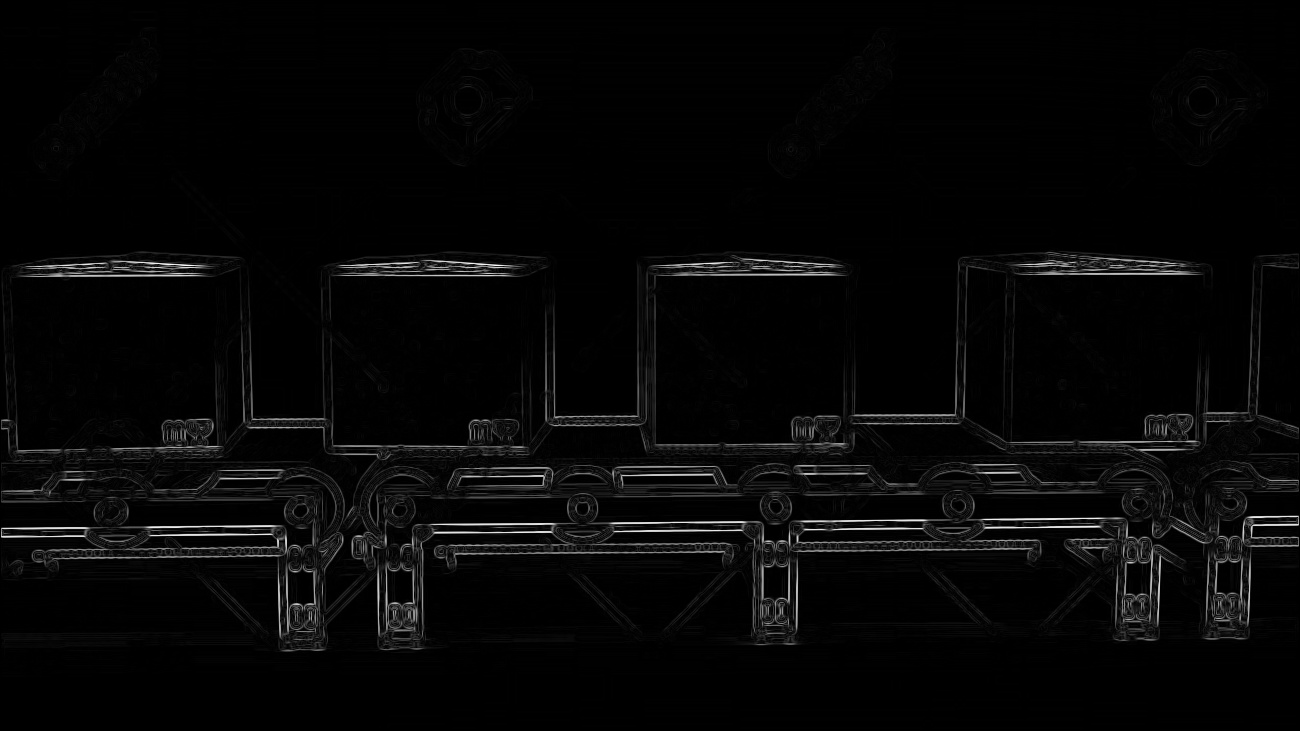
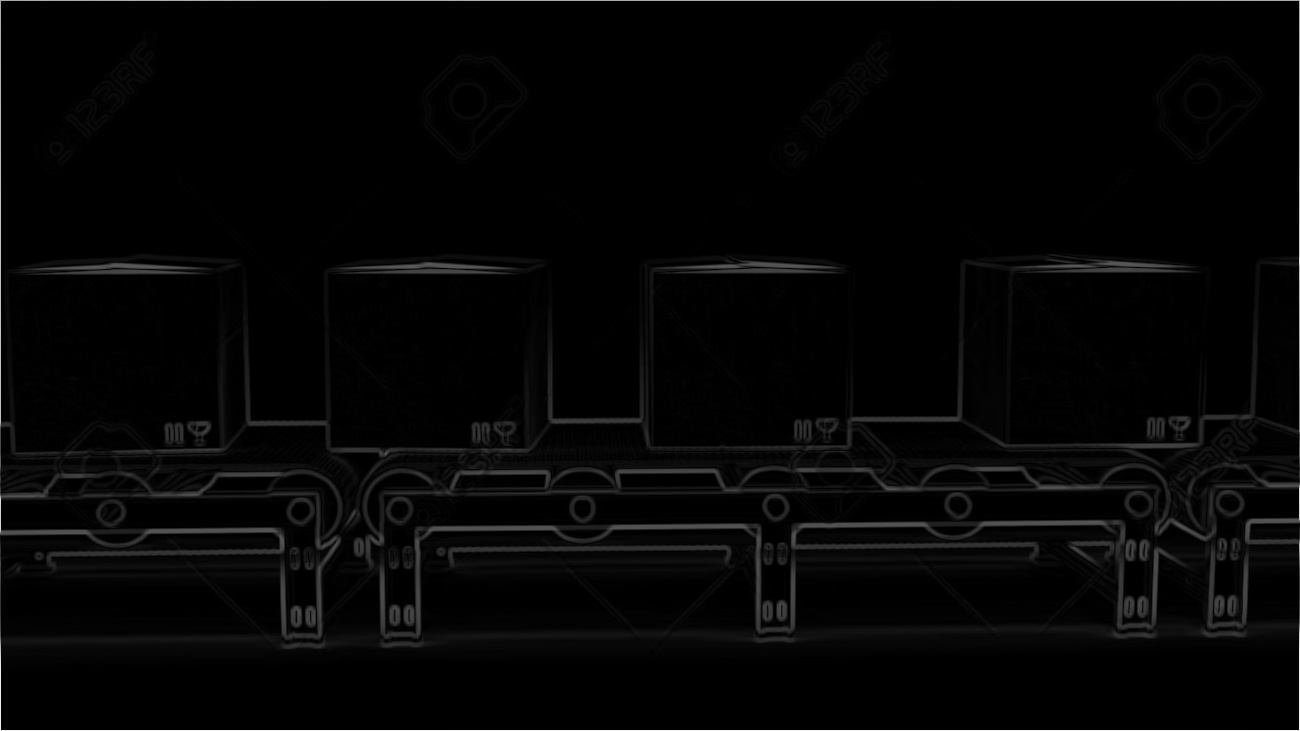
Little changes in folder Descriptors

diff --git a/Descriptors/sobel/sobel.py b/Descriptors/sobel/sobel.py
@@ -2,106 +2,50 @@ import cv2
 import numpy as np
 import matplotlib.pyplot as plt
 
-def sobel(image):
-
-    Gx = np.array([[-1, 0, 1],
-                   [-2, 0, 2],
-                   [-1, 0, 1]])
+def Sobel(img):
+    """
+    Функция применения ядра собеля к ч/б изображению
+    Ввод - Матрица, соответсвующая ч/б изображению
+    Вывод - Матрица, содержащая в себе магнитуду каждого пикселя
+    """ 
+    h, w=img.shape
+    Gx=np.array([[-1, 0, 1],                                                    # Создаём ядра собеля
+                 [-2, 0, 2], 
+                 [-1, 0, 1]], 
+                 dtype=np.float32)
     
-    Gy = np.array([[-1, -2, -1],
-                   [0, 0, 0],
-                   [1, 2, 1]])
+    Gy=np.array([[-1, -2, -1], 
+                 [0, 0, 0], 
+                 [1, 2, 1]], 
+                 dtype=np.float32)
     
-    # Получаем размеры изображения
-    h, w = image.shape
-    
-    # Создаем массивы для результатов
-    X = np.zeros_like(image, dtype=np.float64)
-    Y = np.zeros_like(image, dtype=np.float64)
-    M = np.zeros_like(image, dtype=np.float64)
-        
-    # Применяем свертку (обходим пиксели, кроме границ)
-    for i in range(1, h - 1):
-        for j in range(1, w - 1):
-            # Вырезаем область 3x3 вокруг текущего пикселя
-            region = image[i-1:i+2, j-1:j+2]
-            
-            # Вычисляем градиент по X и Y
-            gx = np.sum(region * Gx)
-            gy = np.sum(region * Gy)
-            
-            X[i, j] = gx
-            Y[i, j] = gy
-            
-            # Вычисляем величину градиента
-            M[i, j] = np.sqrt(gx**2 + gy**2)
-
-    # Нормализуем результат для отображения (0-255)
-    M = (M / M.max()) * 255
-    M = M.astype(np.uint8)
-    
-    return M
-
-"""
-def detect_contours_adaptive(M):
-
-    
-    # Автоматический порог OTSU
-    _, binary = cv2.threshold(M, 0, 255, cv2.THRESH_BINARY + cv2.THRESH_OTSU)
-    
-    # Морфологические операции для улучшения
-    kernel = np.ones((3, 3), np.uint8)
-    binary = cv2.morphologyEx(binary, cv2.MORPH_CLOSE, kernel)  # Закрытие дырок
-    binary = cv2.morphologyEx(binary, cv2.MORPH_OPEN, kernel)   # Удаление шума
-    
-    # Находим контуры
-    contours, hierarchy = cv2.findContours(binary, cv2.RETR_TREE, cv2.CHAIN_APPROX_SIMPLE)
-    
-    # Фильтруем контуры по площади
-    min_area = 100
-    filtered_contours = [cnt for cnt in contours if cv2.contourArea(cnt) > min_area]
-    
-    # Рисуем результат
-    result = img.copy()
-    cv2.drawContours(result, filtered_contours, -1, (0, 255, 0), 2)
-
-    return binary, result
-"""
-
-def ad_cont(M, a):
-    M1 = np.zeros_like(M, dtype=np.float64)
-    for i in range (0, len(M)-a, a):
-        for j in range (0, len(M[0])-a, a):
-            m=M[i:i+a, j:j+a]
-            p=np.sum(m)/len(m)/len(m[0])
-            for i1 in range(a):
-                for j1 in range(a):
-                    if M[i+i1, j+j1]>p:
-                        M1[i+i1, j+j1]=255
-    return M1
+    img_new_size=np.pad(img, 1, mode='constant')                                # Увеличиваем матрицу до размеров i+2, j+2
+    gx=(Gx[0,0]*img_new_size[0:h, 0:w]+                                             #-1*северо-запад
+        Gx[0,2]*img_new_size[0:h, 2:w+2]+                                           # 1*северо-восток
+        Gx[1,0]*img_new_size[1:h+1, 0:w]+                                           #-2*запад
+        Gx[1,2]*img_new_size[1:h+1, 2:w+2]+                                         # 2*восток
+        Gx[2,0]*img_new_size[2:h+2, 0:w]+                                           #-1*юго-запад
+        Gx[2,2]*img_new_size[2:h+2, 2:w+2])                                         # 1*юго-восток
+    gy=(Gy[0,0]*img_new_size[0:h, 0:w]+                                             #-1*северо-запад
+        Gy[0,1]*img_new_size[0:h, 1:w+1]+                                           #-2*север
+        Gy[0,2]*img_new_size[0:h, 2:w+2]+                                           #-1*северо-восток
+        Gy[2,0]*img_new_size[2:h+2, 0:w]+                                           # 1*юго-запад
+        Gy[2,1]*img_new_size[2:h+2, 1:w+1]+                                         #-1*юг
+        Gy[2,2]*img_new_size[2:h+2, 2:w+2])                                         # 1*юго-восток      
+    magnitude=np.sqrt(gx**2 + gy**2)                                            # Считаем магнитуду
+    magnitude=(magnitude/(magnitude.max()+1e-10))*255                           # Нормализуем по максимальному значению
+    cv2.imwrite('X.jpg', gx)
+    cv2.imwrite('Y.jpg', gy)
+    return magnitude.astype(np.uint8)
 
 img = cv2.cvtColor((cv2.imread("image.png")), cv2.COLOR_BGR2GRAY)
 obj=cv2.cvtColor((cv2.imread("image1.png")), cv2.COLOR_BGR2GRAY)
-"""
-for i in range (3,16,2):
-    for j in range (1, 100, 5):
-
-        img = cv2.GaussianBlur(img, (i, i), j)
-
-        M = sobel(img)
-        M1=ad_cont(M, max(len(obj), len(obj[0])))
-
-        cv2.imwrite(f"/mnt/c/CV/COD/Res/M1_{i}_{j}.jpg", M1)
-
-"""
 
 img = cv2.GaussianBlur(img, (5, 5), 41)
 
-M = sobel(img)
-M1=ad_cont(M, max(len(obj), len(obj[0])))
+M = Sobel(img)
+#M1=ad_cont(M, max(len(obj), len(obj[0])))
 
 cv2.imwrite('M.jpg', M)
-cv2.imwrite("M1.jpg", M1)
-
-
+#cv2.imwrite("M1.jpg", M1)
 

diff --git a/Pipeline/classic.py b/Pipeline/classic.py
@@ -191,7 +191,7 @@ def classic(image_BGR, template):
             lbp_Reg=LBP(Reg)                                                        # Получение LBP картинки региона
             hist_Reg=LBP_hist(lbp_Reg)                                              # Получение LBP гистограммы региона
             chi2=np.sum((hist_Reg-hist_template)**2/(hist_Reg+hist_template+1e-10)) # Вычисляем хи квадрат
-            if chi2<0.3:                                                            
+            if chi2<0.3:
                 valid_rectangles.append(rect)
                 cv2.rectangle(image_bgr, (rect[0], rect[1]), 
                               (rect[0]+rect[2], rect[1]+rect[3]), (0, 255, 0), 2)   # Рисуем результат

diff --git a/Descriptors/Gauss/Gauss.py b/Descriptors/Gauss/Gauss.py
@@ -1,0 +1,5 @@
+import cv2
+
+img=cv2.imread("image.png")
+img = cv2.GaussianBlur(img, (5, 5), 1)
+cv2.imwrite("img.jpg", img)
